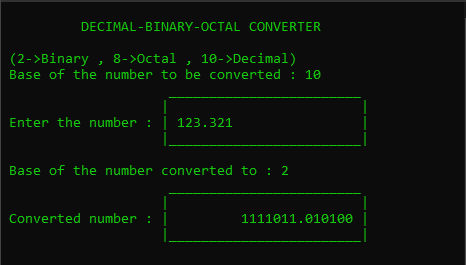
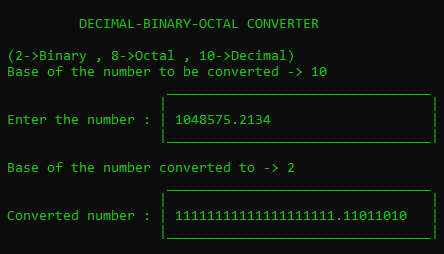
Add files via upload

diff --git a/Converter/Decimal_Binary_Octal_Converter_L.c b/Converter/Decimal_Binary_Octal_Converter_L.c
@@ -1,0 +1,62 @@
+#include <stdio.h>
+#include <windows.h>
+
+void gotoxy(int x, int y)
+{COORD c;c.X=x;c.Y=y;SetConsoleCursorPosition(GetStdHandle(STD_OUTPUT_HANDLE),c);}
+
+unsigned long long intconvert(unsigned long long n,int from,int to)
+{
+	unsigned long long i,a,c=n;
+	
+	for(i=1,a=0;c!=0;i*=from) 
+		{
+			a+=(c%to)*i;
+	        c/=to;
+	    }
+   
+	return a;
+}
+
+long long fracconvert(double n,int from,int to)
+{
+	 double j,d=n;   
+     long long b; 
+	 for(j=1,b=0;d!=0&j<12;j++) 
+		{   
+			b=(b*from)+(long long)d;
+			d=(d-(long long)d)*to;
+		}
+	return b;
+}
+
+int main()
+{
+	system("mode con: lines=20 cols=58");
+
+    int end=1;
+    system("cls");
+	int from,to; double n;
+	long long a,b;
+    
+    gotoxy(10,1);printf("DECIMAL-BINARY-OCTAL CONVERTER");
+	gotoxy(1,3);printf("(2->Binary , 8->Octal , 10->Decimal) \n Base of the number to be converted -> ");
+	scanf("%d",&from);
+
+	gotoxy(1,7);  printf("Enter the number : ");
+	gotoxy(20,5); printf(" _________________________________");
+	gotoxy(20,6); printf("|                                 |");
+    gotoxy(20,7); printf("|                                 |");
+    gotoxy(20,8); printf("|_________________________________|");
+	gotoxy(22,7); scanf("%lf",&n);
+
+	gotoxy(1,10);printf("Base of the number converted to -> ");
+	scanf("%d",&to);
+
+	gotoxy(1,13); printf("Converted number : ");
+	gotoxy(20,11);printf(" _________________________________");
+	gotoxy(20,12);printf("|                                 |");
+    gotoxy(20,13);printf("|                                 |");
+    gotoxy(20,14);printf("|_________________________________|");
+	gotoxy(22,13);printf("%20llu.%lld",intconvert(n,from,to),fracconvert(n-(long long)n,from,to));
+	gotoxy(20,15);printf("\n");
+}
